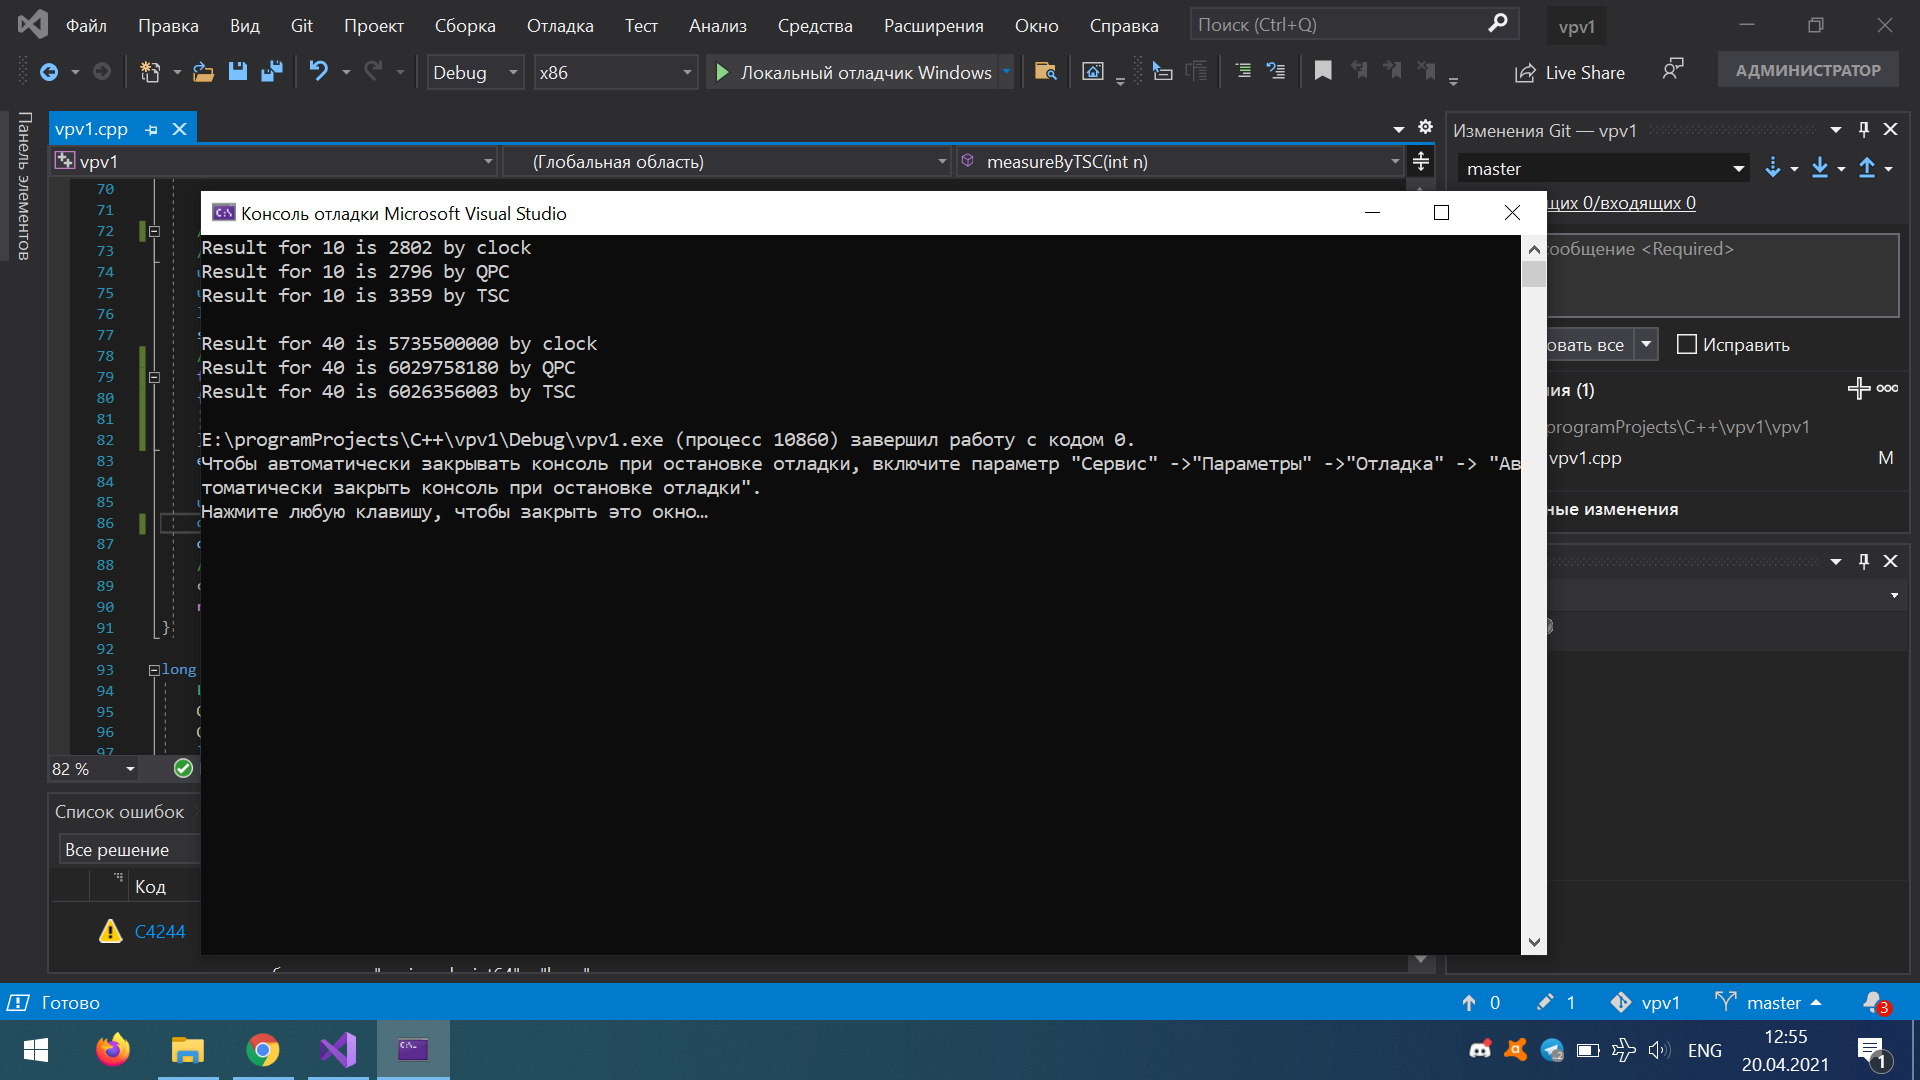
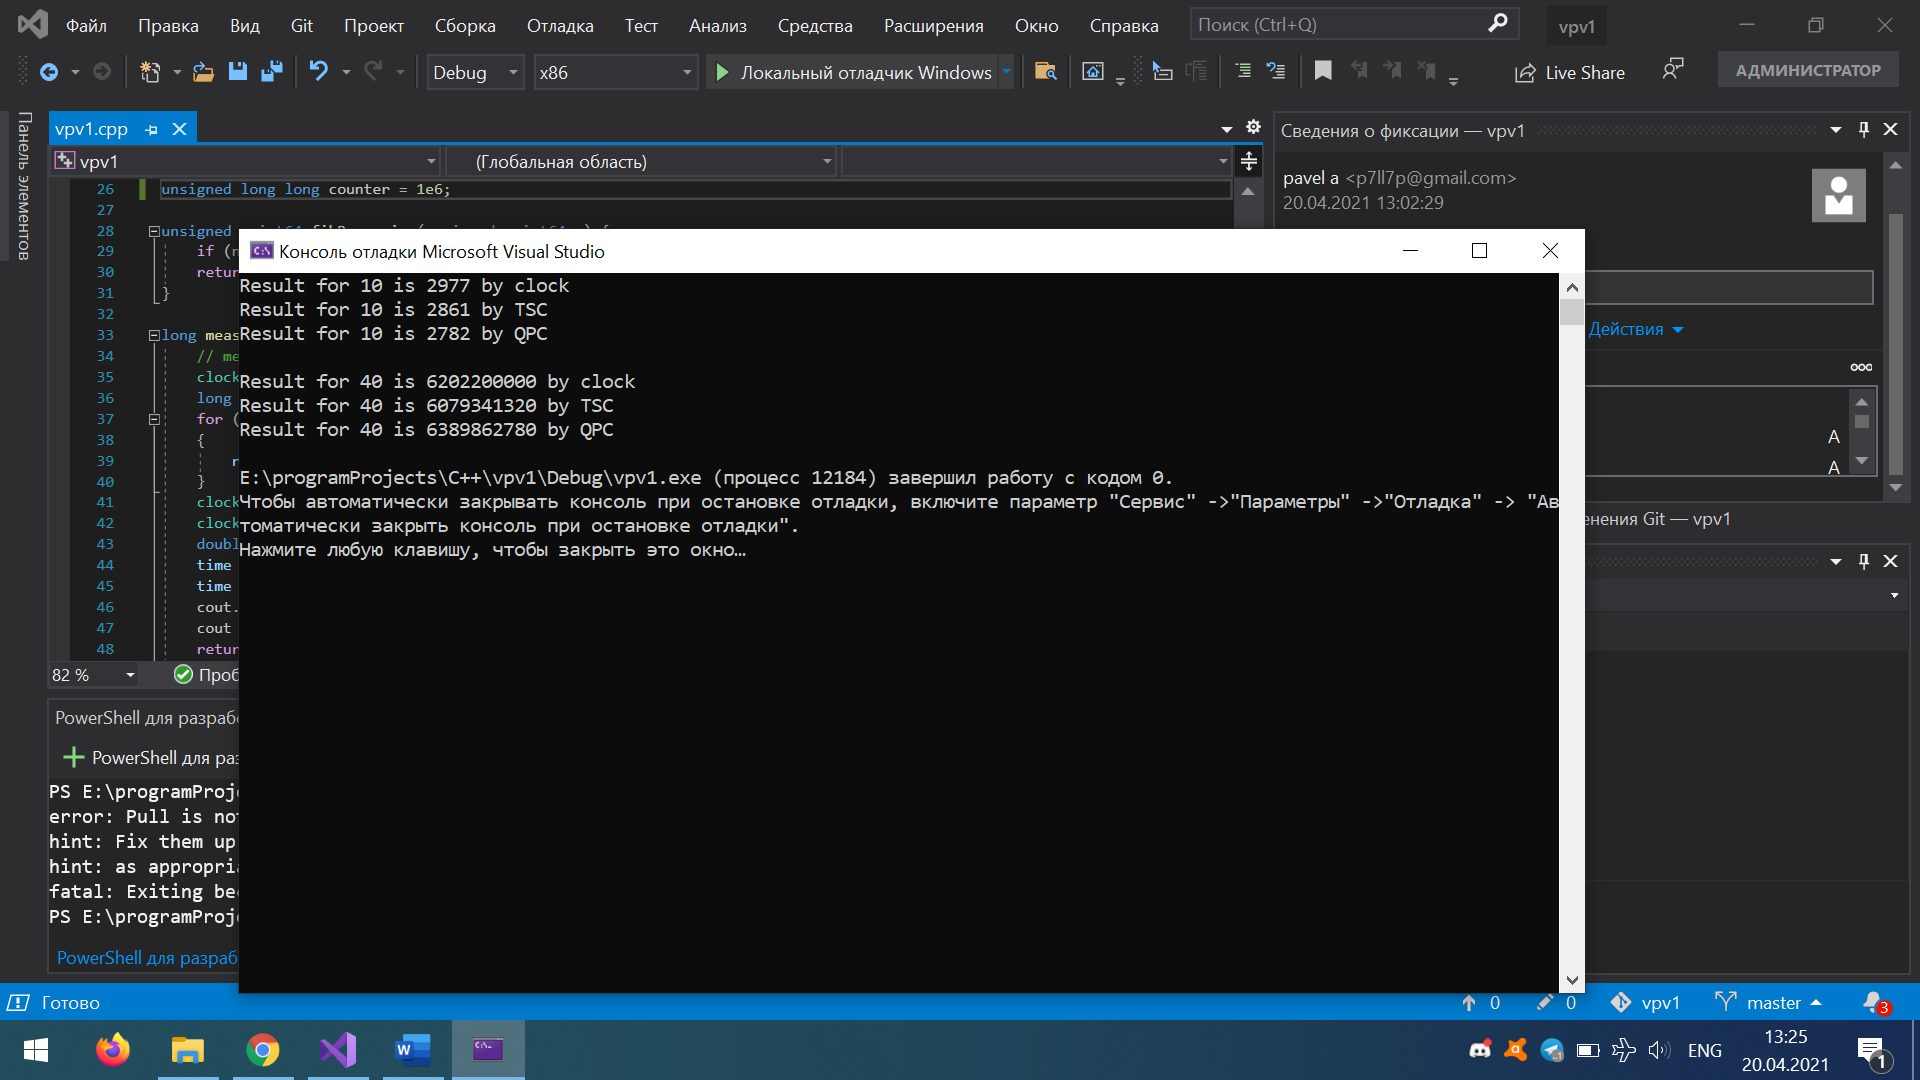
added times of measurment and funciton by link

Changed region(s): [[0.0312, 0.0917, 1.0, 1.0], [0.0312, 0.5194, 0.0625, 0.55], [0.0312, 0.4583, 0.0625, 0.4889]]

diff --git a/vpv1/vpv1.cpp b/vpv1/vpv1.cpp
@@ -5,6 +5,8 @@
 #include <windows.h>
 #include <profileapi.h>
 #include <math.h>
+#include <functional>
+
 using namespace std;
 
 // n & 2 => x1 because 1(10) = 000010(2) 
@@ -30,13 +32,13 @@ unsigned __int64 fibRecursive(unsigned __int64 n) {
     return fibRecursive(n - 1) + fibRecursive(n - 2);
 }
 
-long measureByClock(int n) {
+long measureByClock(int n, std::function<unsigned __int64(unsigned __int64)> func) {
     // measuring by clock
     clock_t start = clock();
-    long res = 0;
+    unsigned __int64 res = 0;
     for (size_t i = 0; i < counter; i++)
     {
-        res = fibRecursive(n);
+        res = func(n);
     }
     clock_t end = clock();
     clock_t delta = end - start;
@@ -50,7 +52,7 @@ long measureByClock(int n) {
 
 
 
- long measureByTSC(int n) {
+ long measureByTSC(int n, std::function<unsigned __int64(unsigned __int64)> func) {
     clock_t tclock = clock();
     while (clock() < tclock + 1); // ожидание конца начавшегося такта
 
@@ -73,13 +75,13 @@ long measureByClock(int n) {
     //cout << "frequancy is " << F1 << endl;
     unsigned long long start;
     unsigned long long end;
-    long res = 0;
+    unsigned __int64 res = 0;
 
 
     start = __rdtsc();
     for (size_t i = 0; i < counter; i++)
     {
-        res = fibRecursive(n);
+        res = func(n);
     }
     end = __rdtsc();
     unsigned long long deltaTSC = end - start;
@@ -90,14 +92,14 @@ long measureByClock(int n) {
     return res;
 }
 
-long measureByQPC(int n) {
+long measureByQPC(int n, std::function<unsigned __int64(unsigned __int64)> func) {
     LARGE_INTEGER t_start, t_finish, freqQPC, t;
     QueryPerformanceFrequency(&freqQPC); // получаем частоту
     QueryPerformanceCounter(&t_start); // засекаем время старта CODE
     long res = 0;
     for (size_t i = 0; i < counter; i++)
     {
-        res = fibRecursive(n);
+        res = func(n);
     }
     QueryPerformanceCounter(&t_finish);
     auto deltaQPC = t_finish.QuadPart - t_start.QuadPart;
@@ -113,17 +115,16 @@ int main()
 {
     int n = 10;
 
-    fibRecursive(n);
-    measureByClock(n);
-    measureByTSC(n);
-    measureByQPC(n);
+    measureByClock(n, fibRecursive);
+    measureByTSC(n, fibRecursive);
+    measureByQPC(n, fibRecursive);
     cout << endl;
 
     int k = 40;
     counter = 10;
-    measureByClock(k);
-    measureByTSC(k);
-    measureByQPC(k);
+    measureByClock(k, fibRecursive);
+    measureByTSC(k, fibRecursive);
+    measureByQPC(k, fibRecursive);
 
 }
 
